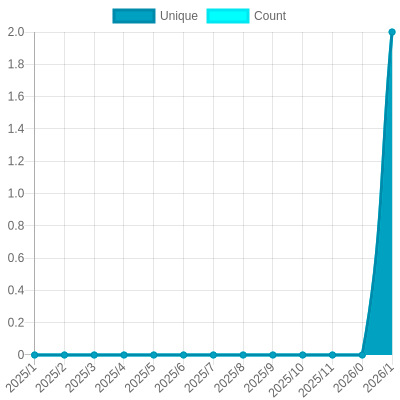
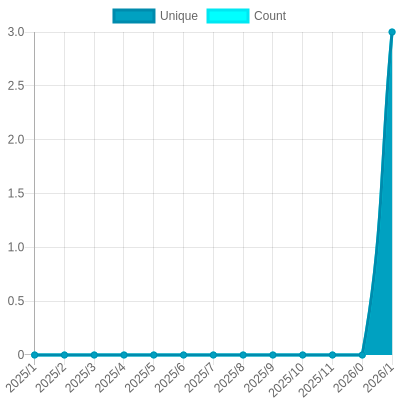
Update views

diff --git a/readme/866813614/year.md b/readme/866813614/year.md
@@ -23,10 +23,10 @@
 			<code>2025/2/1</code>
 		</td>
 		<td>
-			<code>0</code>
+			<code>1</code>
 		</td>
 		<td>
-			<code>0</code>
+			<code>1</code>
 		</td>
 	</tr>
 	<tr>
@@ -164,7 +164,7 @@
 </table>
 
 </details>
-<small><i>Last updated on 2025/2/26 6:32 AM UTC</i></small>
+<small><i>Last updated on 2025/2/26 12:46 PM UTC</i></small>
 
 ## ✂Copy and 📋 Paste
 ### SVG Badge

diff --git a/readme/871952122/year.md b/readme/871952122/year.md
@@ -23,10 +23,10 @@
 			<code>2025/2/1</code>
 		</td>
 		<td>
-			<code>2</code>
+			<code>3</code>
 		</td>
 		<td>
-			<code>2</code>
+			<code>3</code>
 		</td>
 	</tr>
 	<tr>
@@ -164,7 +164,7 @@
 </table>
 
 </details>
-<small><i>Last updated on 2025/2/26 6:31 AM UTC</i></small>
+<small><i>Last updated on 2025/2/26 12:45 PM UTC</i></small>
 
 ## ✂Copy and 📋 Paste
 ### SVG Badge

diff --git a/README.md b/README.md
@@ -309,7 +309,7 @@ The project created and maintained by [gayanvoice](https://github.com/gayanvoice
 	</tr>
 </table>
 
-<small><i>Last updated on 2025/2/26 6:33 AM UTC</i></small>
+<small><i>Last updated on 2025/2/26 12:48 PM UTC</i></small>
 
 ## ✂Copy and 📋 Paste
 ### Total Views Badge

diff --git a/readme/343410109/year.md b/readme/343410109/year.md
@@ -164,7 +164,7 @@
 </table>
 
 </details>
-<small><i>Last updated on 2025/2/26 6:33 AM UTC</i></small>
+<small><i>Last updated on 2025/2/26 12:47 PM UTC</i></small>
 
 ## ✂Copy and 📋 Paste
 ### SVG Badge

diff --git a/readme/415340637/year.md b/readme/415340637/year.md
@@ -164,7 +164,7 @@
 </table>
 
 </details>
-<small><i>Last updated on 2025/2/26 6:33 AM UTC</i></small>
+<small><i>Last updated on 2025/2/26 12:47 PM UTC</i></small>
 
 ## ✂Copy and 📋 Paste
 ### SVG Badge

diff --git a/readme/443017465/year.md b/readme/443017465/year.md
@@ -164,7 +164,7 @@
 </table>
 
 </details>
-<small><i>Last updated on 2025/2/26 6:33 AM UTC</i></small>
+<small><i>Last updated on 2025/2/26 12:47 PM UTC</i></small>
 
 ## ✂Copy and 📋 Paste
 ### SVG Badge

diff --git a/readme/574610783/year.md b/readme/574610783/year.md
@@ -164,7 +164,7 @@
 </table>
 
 </details>
-<small><i>Last updated on 2025/2/26 6:33 AM UTC</i></small>
+<small><i>Last updated on 2025/2/26 12:47 PM UTC</i></small>
 
 ## ✂Copy and 📋 Paste
 ### SVG Badge

diff --git a/readme/575362710/year.md b/readme/575362710/year.md
@@ -164,7 +164,7 @@
 </table>
 
 </details>
-<small><i>Last updated on 2025/2/26 6:33 AM UTC</i></small>
+<small><i>Last updated on 2025/2/26 12:47 PM UTC</i></small>
 
 ## ✂Copy and 📋 Paste
 ### SVG Badge

diff --git a/readme/575378569/year.md b/readme/575378569/year.md
@@ -164,7 +164,7 @@
 </table>
 
 </details>
-<small><i>Last updated on 2025/2/26 6:33 AM UTC</i></small>
+<small><i>Last updated on 2025/2/26 12:47 PM UTC</i></small>
 
 ## ✂Copy and 📋 Paste
 ### SVG Badge

diff --git a/readme/778360962/year.md b/readme/778360962/year.md
@@ -164,7 +164,7 @@
 </table>
 
 </details>
-<small><i>Last updated on 2025/2/26 6:33 AM UTC</i></small>
+<small><i>Last updated on 2025/2/26 12:47 PM UTC</i></small>
 
 ## ✂Copy and 📋 Paste
 ### SVG Badge

diff --git a/readme/778385283/year.md b/readme/778385283/year.md
@@ -164,7 +164,7 @@
 </table>
 
 </details>
-<small><i>Last updated on 2025/2/26 6:32 AM UTC</i></small>
+<small><i>Last updated on 2025/2/26 12:46 PM UTC</i></small>
 
 ## ✂Copy and 📋 Paste
 ### SVG Badge

diff --git a/readme/778969643/year.md b/readme/778969643/year.md
@@ -164,7 +164,7 @@
 </table>
 
 </details>
-<small><i>Last updated on 2025/2/26 6:32 AM UTC</i></small>
+<small><i>Last updated on 2025/2/26 12:46 PM UTC</i></small>
 
 ## ✂Copy and 📋 Paste
 ### SVG Badge
